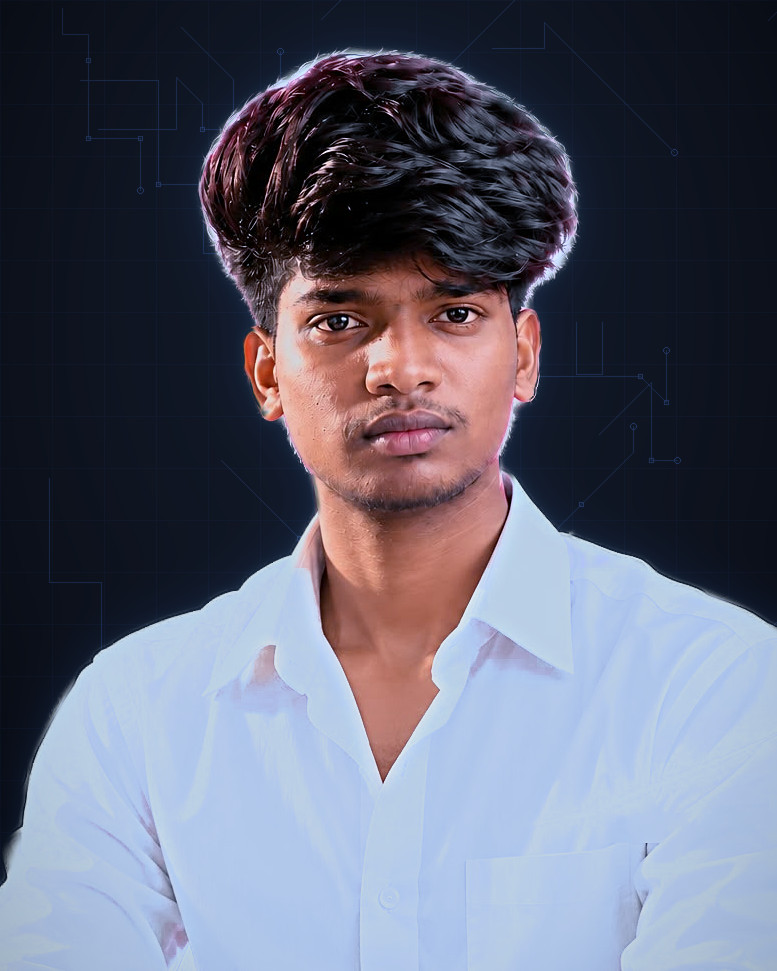
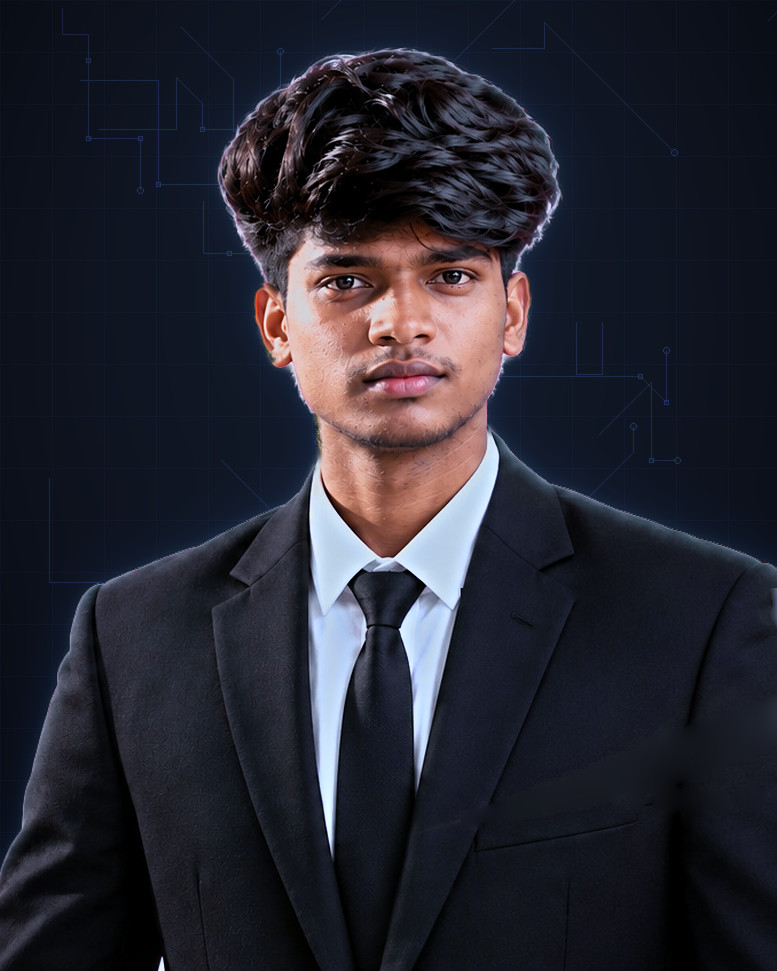
feat: replace hero portrait

diff --git a/src/config/assets.ts b/src/config/assets.ts
@@ -104,9 +104,9 @@ export const assets = {
      * Extracted from the design mockup in `public/references/` by
      * `scripts/extract-portrait.py`. A person matte — not a rectangle —
      * removes that mockup's navbar, headline, CTAs, accent pills, ghost
-     * typography and pink backdrop, and the one label printed across the
-     * shoulder is inpainted out. Only the photograph remains; the subject is
-     * cropped, never generated or reshaped.
+     * typography and pink backdrop, and the orbit swoosh and label printed
+     * across the jacket are inpainted out. Only the photograph remains; the
+     * subject is cropped and scaled uniformly, never generated or reshaped.
      *
      * The hero frame is 4:5 at every breakpoint to match, so `object-fit:
      * cover` trims nothing and the face, hair and shoulders are intact at

diff --git a/src/config/site.ts b/src/config/site.ts
@@ -443,8 +443,8 @@ export const orbitLayout = {
      `centreY` is the portrait-protection invariant and the single most
      important number here. The near half of every orbit — the half that paints
      IN FRONT of the portrait — can never rise above this line, and the chin in
-     `hero-clean.jpg` measures at +0.01w below the frame centre. At +0.17w the
-     near arc therefore crosses the collar and the shirt, never the mouth,
+     `hero-clean.jpg` measures at about -0.08w, above the frame centre. At
+     +0.17w the near arc therefore crosses the collar and the tie, never the mouth,
      nose, eyes or hair, with room to spare for the icon's own radius and for
      the plane angles below. The far half passes BEHIND the portrait, which is
      opaque, so it is occluded rather than drawn over the face.

diff --git a/scripts/extract-portrait.py b/scripts/extract-portrait.py
@@ -25,12 +25,15 @@ Stages
   2. refine     guided filter snaps the soft matte onto real image edges;
                 everything outside the dilated main blob is dropped, which is
                 what removes the pills, headline, swooshes and ghost type.
-  3. repair     overlay chrome printed ON the subject ("( SCROLL TO EXPLORE )")
-                is diffusion-inpainted, since masking cannot reach it.
+  3. repair     overlay chrome printed ON the subject (the pink orbit swoosh
+                and "( SCROLL TO EXPLORE )", both across the jacket) is
+                diffusion-inpainted, since masking cannot reach it.
   4. unmix      C = a*F + (1-a)*B solved for F along the edge band, so the
                 pink backdrop stops bleeding into the hair.
   5. colour     magenta grade neutralised; white shirt rebalanced.
-  6. crop       4:5 portrait, centred on the head, full shoulders kept.
+  6. crop       4:5 portrait, centred on the head, full shoulders kept,
+                then scaled uniformly onto the 777 x 971 grid the reveal's
+                viewBox is fixed to (src/animations/heroReveal.ts).
 
 Requires numpy, pillow, scipy, onnxruntime. The ~176 MB segmentation model is
 downloaded once into `scripts/.cache/`.
@@ -43,7 +46,13 @@ import urllib.request
 
 import numpy as np
 from PIL import Image
-from scipy.ndimage import binary_dilation, binary_fill_holes, label, uniform_filter
+from scipy.ndimage import (
+    binary_dilation,
+    binary_fill_holes,
+    label,
+    median_filter,
+    uniform_filter,
+)
 
 ROOT = os.path.dirname(os.path.dirname(os.path.abspath(__file__)))
 SRC = os.path.join(ROOT, "public", "references", "hero-design-reference.jpg")
@@ -57,12 +66,13 @@ MODEL_URL = (
 )
 
 BG = np.array([0x0C, 0x11, 0x1C], np.float32) / 255.0  # --c-bg-2
-SEG_PASSES = [(450, 30, 1480, 1024), (500, 60, 1440, 1024)]
-OVERLAYS = [(1128, 846, 1432, 896)]  # "( SCROLL TO EXPLORE ) | SCROLL"
-SHIRT_Y = 620  # below the chin: only garment and collar live here
+SEG_PASSES = [(470, 150, 1490, 1024), (520, 180, 1440, 1024)]
+OVERLAYS = [(1000, 690, 1400, 900)]  # orbit swoosh + "( SCROLL TO EXPLORE )"
+SHIRT_Y = 560  # below the chin: only garment and collar live here
 MAGENTA = 0.85  # how hard to pull the mockup pink grade out
 RATIO = 4 / 5
-HEADROOM = 48
+HEADROOM = 42
+OUT_SIZE = (777, 971)  # REVEAL_VIEWBOX; the hero CSS ratio is keyed to it
 JPEG_QUALITY = 90
 
 MEAN = np.array([0.485, 0.456, 0.406], np.float32)
@@ -113,10 +123,12 @@ def largest_blob(mask):
     return lab == sizes.argmax()
 
 
-def diffuse_inpaint(patch, hole, iters=600):
+def diffuse_inpaint(patch, hole, iters=600, seed=None):
+    """`seed` limits the starting fill to pixels of the surface being repaired."""
     out = patch.copy()
+    src = ~hole if seed is None else seed & ~hole
     out[hole] = np.nanmedian(
-        np.where(hole[..., None], np.nan, patch).reshape(-1, 3), axis=0
+        np.where(src[..., None], patch, np.nan).reshape(-1, 3), axis=0
     )
     for _ in range(iters):
         out[hole] = boxf(out, 2)[hole]
@@ -196,10 +208,17 @@ def main():
         sub = work[y0:y1, x0:x1]
         g = sub @ np.array([0.299, 0.587, 0.114], np.float32)
         spread = sub.max(-1) - sub.min(-1)
-        hole = binary_dilation((g < 0.80) | (spread > 0.22), iterations=4)
-        hole &= alpha[y0:y1, x0:x1] > 0.05
+        # The chrome is thin, so a wide median recovers the garment under it.
+        # Only the dark jacket is repaired: the shirt and the matte edge are
+        # left to the unmix stage.
+        surface = median_filter(g, size=15, mode="nearest")
+        jacket = binary_dilation(surface < 0.30, iterations=2)
+        # The swoosh carries a soft glow wider than its core; the fabric's own
+        # spread stays under ~0.03, so 0.045 catches the glow and not the weave.
+        hole = binary_dilation((g > surface + 0.06) | (spread > 0.045), iterations=6)
+        hole &= jacket & (alpha[y0:y1, x0:x1] > 0.05)
         print("repair  %s  %d px" % ((x0, y0, x1, y1), hole.sum()))
-        work[y0:y1, x0:x1] = diffuse_inpaint(sub, hole)
+        work[y0:y1, x0:x1] = diffuse_inpaint(sub, hole, iters=1500, seed=jacket)
 
     # 4 -- edge colour unmixing
     known = alpha < 0.08
@@ -226,6 +245,21 @@ def main():
 
     px = work[top:H, left : left + cw]
     a = alpha[top:H, left : left + cw]
+    if (cw, ch) != OUT_SIZE:
+        # Uniform scale only: the crop is already 4:5, so nothing stretches.
+        print("scale   %dx%d -> %dx%d" % ((cw, ch) + OUT_SIZE))
+        px = np.stack(
+            [
+                np.asarray(
+                    Image.fromarray(px[..., c]).resize(OUT_SIZE, Image.LANCZOS),
+                    np.float32,
+                )
+                for c in range(3)
+            ],
+            -1,
+        )
+        a = np.asarray(Image.fromarray(a).resize(OUT_SIZE, Image.LANCZOS), np.float32)
+        px, a = np.clip(px, 0, 1), np.clip(a, 0, 1)
 
     Image.fromarray((np.dstack([px, a]) * 255).astype(np.uint8), "RGBA").save(
         OUT_PNG, optimize=True

diff --git a/public/images/README.md b/public/images/README.md
@@ -34,9 +34,10 @@ python scripts/extract-portrait.py
 It takes the full hero mockup in `public/references/hero-design-reference.jpg`
 and keeps only the photograph: the navbar, headline, CTAs, accent pills, ghost
 typography, swooshes and pink backdrop are all removed by an alpha matte, and
-the one piece of chrome printed over the subject ("( SCROLL TO EXPLORE )",
-across the right shoulder) is inpainted. The subject itself is only cropped —
-never generated, warped or reshaped. See the script's header for the full
+the chrome printed over the subject (the orbit swoosh and
+"( SCROLL TO EXPLORE )", across the jacket) is inpainted. The subject itself
+is only cropped and uniformly scaled to 777 x 971 — never generated, warped or
+reshaped. See the script's header for the full
 stage list and for what the colour pass is and is not allowed to touch.
 
 `scripts/.cache/` holds the ~176 MB segmentation model; it is gitignored and
